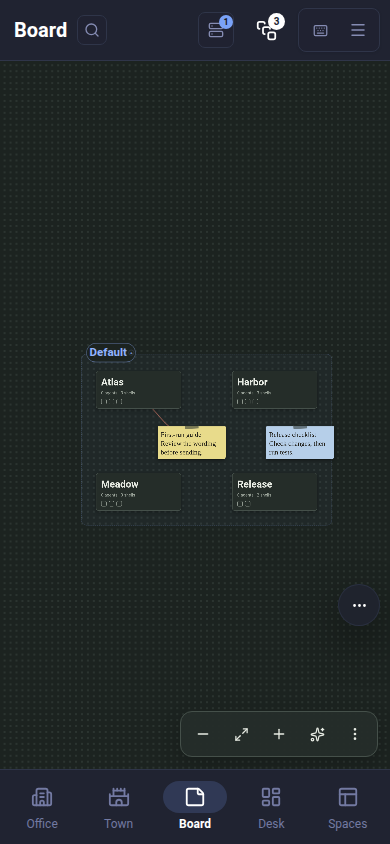
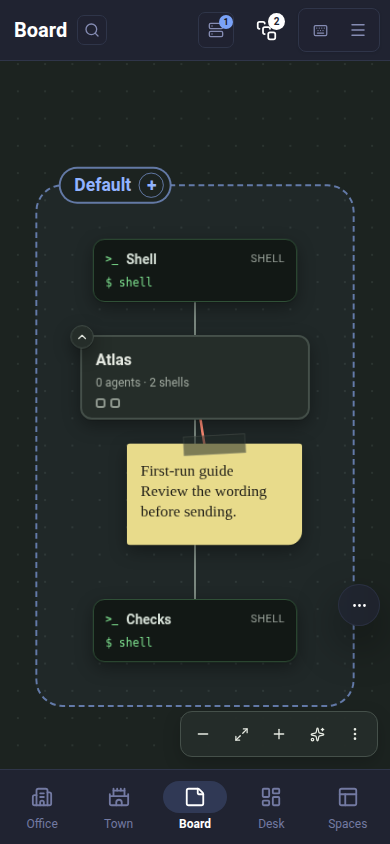
Correct Board Send guidance and improve the mobile capture

diff --git a/site/index.html b/site/index.html
@@ -759,7 +759,7 @@
               <a href="./assets/herdr-world-mobile-board.png">
                 <img
                   src="./assets/herdr-world-mobile-board.png"
-                  alt="Herdr.World Board cards and notes on mobile"
+                  alt="Board close-up of a workspace, terminal tabs and a strung planning note"
                   width="390"
                   height="844"
                   loading="lazy"

diff --git a/docs/TUTORIAL.md b/docs/TUTORIAL.md
@@ -203,8 +203,13 @@ on your phone and desktop.
    new note strung to where you started. Click a string, then **Delete**, to
    remove it.
 7. A note strung to an agent's pane offers **Send to <agent>**. World checks the
-   pane still holds the same agent and sends the note once; nothing is ever sent
-   without **Send**. **Start an agent…** opens the same dialog: choose the workspace
+   current runtime, the witnessed pane/terminal IDs and that an agent is present,
+   then sends the note once. This does not prove it is the agent that was running
+   when you made the string: a replacement in the same terminal can receive it.
+   Inspect the current target before pressing **Send**; nothing is sent without
+   that action. This identity gap is tracked in
+   [issue #228](https://github.com/IvoryHeart/herdr-world/issues/228).
+   **Start an agent…** opens the same dialog: choose the workspace
    and the agent, optionally name the tab, and press **Start and send**; the
    note is sent once the agent is ready. (Starting a chosen agent kind
    currently opens a shell; see
@@ -225,9 +230,10 @@ to the intended workspace or pane. Read the target before using **Send**.
 
 ![Board with four workspace cards, terminal tabs and planning notes](./images/herdr-world-desktop-board.png)
 
-![Board at phone width with workspace cards and a planning note](./images/herdr-world-mobile-board.png)
+![Board close-up of a workspace, terminal tabs and a strung planning note](./images/herdr-world-mobile-board.png)
 
 The Town and Board screenshots use real shell panes in disposable projects.
+The phone Board close-up focuses one workspace, its tabs and a strung note.
 Their empty agent counts are intentional; the notes are sample planning text,
 not reports of completed agent work.
 

diff --git a/README.md b/README.md
@@ -31,9 +31,10 @@ for released availability.
 
 ## Screenshots
 
-The Town and Board captures show current main with four disposable workspaces,
-real shell panes and synthetic notes. Empty attention counts reflect that scene;
-no agent activity is fabricated. Click a screenshot to open it at full resolution.
+The Town and desktop Board captures show current main with four disposable
+workspaces. Mobile Board focuses on one workspace, two terminal tabs and a strung
+planning note. These scenes use real shell panes and synthetic notes. Empty
+attention counts reflect those scenes; no agent activity is fabricated. Click a screenshot to open it at full resolution.
 
 ### Desktop
 
@@ -53,9 +54,11 @@ its captured workspace, whether opened from Town, Board or Desk. See the
 
 ### Mobile
 
-| Town | Board | Spaces |
-| --- | --- | --- |
-| [![Town at phone width](./docs/images/herdr-world-mobile-town.png)](./docs/images/herdr-world-mobile-town.png) | [![Board at phone width with workspace cards and a planning note](./docs/images/herdr-world-mobile-board.png)](./docs/images/herdr-world-mobile-board.png) | [![Spaces terminal and touch controls](./docs/images/herdr-world-mobile-spaces.png)](./docs/images/herdr-world-mobile-spaces.png) |
+[![Board close-up with a workspace, terminal tabs and a strung planning note](./docs/images/herdr-world-mobile-board.png)](./docs/images/herdr-world-mobile-board.png)
+
+| Town | Spaces |
+| --- | --- |
+| [![Town at phone width](./docs/images/herdr-world-mobile-town.png)](./docs/images/herdr-world-mobile-town.png) | [![Spaces terminal and touch controls](./docs/images/herdr-world-mobile-spaces.png)](./docs/images/herdr-world-mobile-spaces.png) |
 
 ## Quick start
 

diff --git a/CHANGELOG.md b/CHANGELOG.md
@@ -11,7 +11,8 @@ are optional because the merged PR history records their source.
 
 - Focus the README, tutorial, feature guide and website on Town, Board, Desk and
   Spaces, with current Town/Board layouts and desktop/mobile captures. Identify
-  Office, Tree and Graph as legacy views planned for retirement.
+  Office, Tree and Graph as legacy views planned for retirement. Show a readable
+  mobile Board close-up and describe Send's current pane/terminal identity checks.
 
 ### Added
 
@@ -27,8 +28,11 @@ are optional because the merged PR history records their source.
   sticky note and drag a card's red dot to string a note to a workspace, tab or
   exact pane; click a string to cut it. Notes, strings and the board's layout
   are saved by the World service and appear on every device. A note strung to an
-  agent's pane can be sent to that agent; World first checks the pane still
-  holds the same agent and sends it once. After Herdr restarts, Board asks
+  agent's pane can be sent once to its current occupant after World checks the
+  runtime, witnessed pane/terminal IDs and agent presence. Original agent-session
+  continuity is not checked; inspect the target before sending
+  ([issue #228](https://github.com/IvoryHeart/herdr-world/issues/228)). After Herdr
+  restarts, Board asks
   before trusting strings whose terminals changed; strings whose target closed
   wait in a Needs a home tray instead of attaching to the wrong card. A note can
   also start a new agent in a chosen workspace, which receives the note once

diff --git a/docs/SCREENSHOTS.md b/docs/SCREENSHOTS.md
@@ -41,11 +41,13 @@ PNG originals without adding fictional UI or agent conversations.
 | Desktop Changes | `herdr-world-desktop-changes.png` | Same agent's changed files and readable diff |
 | Desktop History | `herdr-world-desktop-history.png` | Same agent's real session history |
 | Mobile Town | `herdr-world-mobile-town.png` | Town at phone width |
-| Mobile Board | `herdr-world-mobile-board.png` | Board cards and a planning note at phone width |
+| Mobile Board | `herdr-world-mobile-board.png` | Readable close-up of one workspace, two shell tabs and a strung planning note |
 | Mobile Spaces | `herdr-world-mobile-spaces.png` | Focused terminal and mobile controls |
 
 The current Town/Board captures follow main after the Board merge, using Herdr
 0.9.3 with disposable projects, real shell panes and synthetic planning notes.
+The mobile Board close-up uses a separate single-workspace scene with two tabs
+and a strung note, so its text remains readable at the native phone width.
 Their empty attention counts reflect the runtime; notes do not imply completed
 agent work. Label current-main captures in the README and tutorial; consult release
 notes for stable availability. Office, Tree and Graph images remain historical

diff --git a/FEATURES.md b/FEATURES.md
@@ -56,9 +56,12 @@ released availability.
     status keeps its own colours.
   - Notes and strings are saved by the World service and shared across your
     devices. Strings attach to an exact pane, tab or workspace; a note strung to
-    an agent can be sent to it, only when you press Send, after World checks the
-    pane still holds the same agent. A note can start a new agent in a chosen
-    workspace.
+    a pane can be sent to its current agent only when you press Send. World checks
+    the runtime, witnessed pane/terminal IDs and agent presence, not continuity
+    of the original agent session. Inspect the recipient before sending; an
+    agent replaced within the same terminal can receive the note
+    ([issue #228](https://github.com/IvoryHeart/herdr-world/issues/228)).
+    A note can start a new agent in a chosen workspace.
   - Drag a tab onto another workspace of its host to move it (asks first).
   - After a Herdr restart, strings that cannot be confirmed ask Keep or Detach;
     strings whose target closed wait in Needs a home. Selecting a card opens
